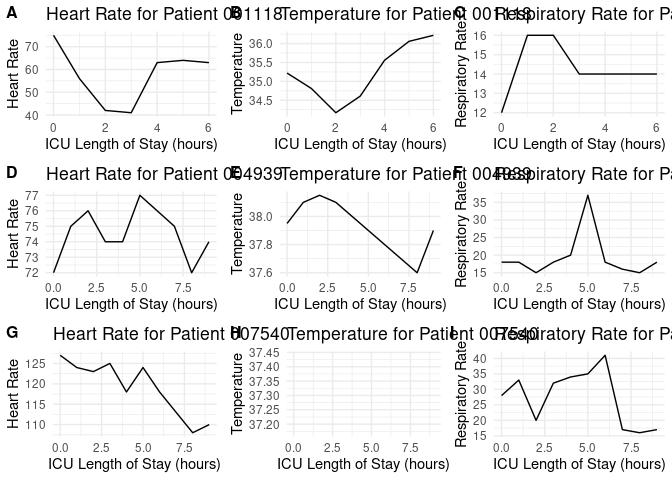
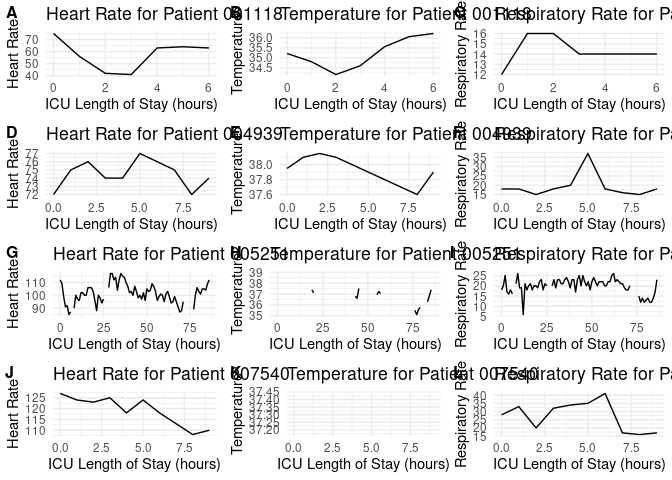
Updated report

diff --git a/A7_Q4.md b/A7_Q4.md
@@ -3,7 +3,7 @@ A7
 
 ## Q3
 
-## Date and Time 2023-04-11 14:18:18
+## Date and Time 2023-04-11 15:20:43
 
 ## A table listing the patients who currently have sepsis (if any), along with their most recent heart rate, temperature, and respiratory rate
 
@@ -20,13 +20,14 @@ sepsis_patients <- most_recent_data %>%
 sepsis_patients
 ```
 
-    # A tibble: 3 × 4
-    # Groups:   PatientID [3]
+    # A tibble: 4 × 4
+    # Groups:   PatientID [4]
       PatientID    HR  Temp  Resp
       <chr>     <dbl> <dbl> <dbl>
     1 001118       63  36.2    14
     2 004939       74  37.9    18
-    3 007540      110  37.2    17
+    3 005251      112  NA      23
+    4 007540      110  37.2    17
 
 ## Plots for all patients who have sepsis (if any) that show the complete history of their heart rate, temperature, and respiratory rate during their time in the ICU.
 
